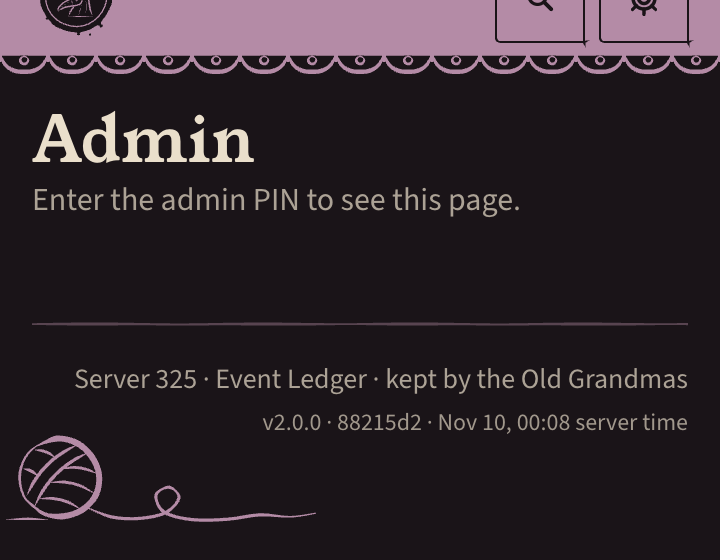
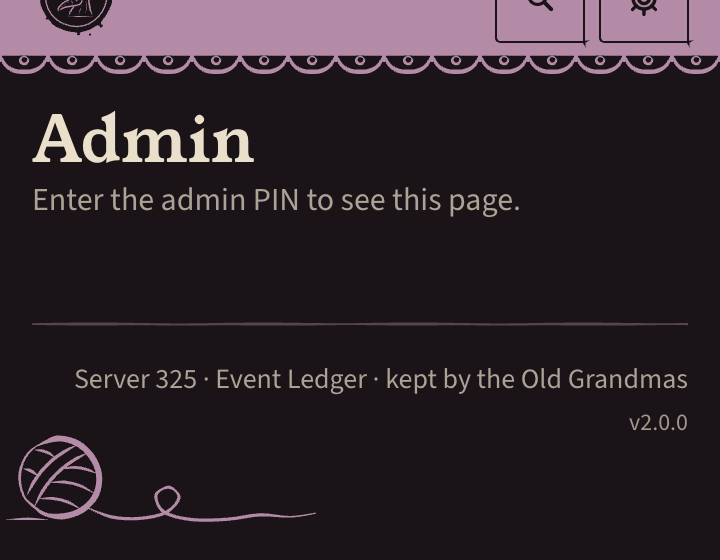
feat(footer): show only the version number (#193)
The owner finds the commit and the date too much text: the footer now shows
only the version (v2.0.0 on a release deploy of main), the branch on other
deploys (dev) and local outside Vercel. lib/build-line.ts becomes
lib/build-version.ts; the page clock plumbing from the previous commit is
reverted, so no caller of SiteFooter changes. D58 and the handoff follow.

Changed region(s): [[0.6111, 0.7286, 0.9472, 0.7893], [0.3667, 0.7286, 0.5806, 0.7893]]

diff --git a/app/_ui/SiteFooter.tsx b/app/_ui/SiteFooter.tsx
@@ -1,25 +1,17 @@
 // Page footer: the ledger's byline on the right and one corner ornament at the bottom left, out of the
 // content's way (DESIGN.md ornament budget): the yarn ball by default, the Granny Doctor on the error
-// and player pages. Under the byline, the build line (D58): release or branch and short commit, inlined
-// by next.config.ts, then the build time in the page's clock like every other date.
+// and player pages. Under the byline, the live version (D58), inlined at build time by next.config.ts.
 import { GrannyStanding } from "@/lib/brand/components/Mascot";
 import { YarnCorner } from "@/lib/brand/components/YarnCorner";
 import type { Dictionary } from "@/lib/copy";
 
-import type { Clock } from "./format";
-
 export function SiteFooter({
   ornament = "yarn",
-  clock,
   copy,
 }: {
   ornament?: "yarn" | "granny";
-  /** The page's clock; null in the client error boundaries, which then show no build time. */
-  clock: Clock | null;
   copy: Dictionary;
 }) {
-  const builtAt = process.env.BUILD_AT;
-  const build = [process.env.BUILD_LABEL, builtAt && clock ? clock.at(new Date(builtAt)) : null];
   return (
     <footer
       className={`relative mx-auto mt-8 max-w-[960px] px-4 text-plum sm:px-6 ${ornament === "granny" ? "h-36" : "h-28"}`}
@@ -29,7 +21,7 @@ export function SiteFooter({
         {copy.site.ledger} · {copy.site.byline}
       </p>
       <p className="mt-1 text-right text-xs text-ink/65 tabular-nums">
-        {build.filter(Boolean).join(" · ")}
+        {process.env.BUILD_VERSION}
       </p>
       {ornament === "granny" ? (
         <GrannyStanding className="absolute bottom-2 left-2 w-20" />

diff --git a/app/_ui/ErrorPage.tsx b/app/_ui/ErrorPage.tsx
@@ -6,7 +6,6 @@ import type { ReactNode } from "react";
 import { buttonClass } from "@/lib/brand/components/Button";
 import type { Dictionary } from "@/lib/copy";
 
-import type { Clock } from "./format";
 import { SiteFooter } from "./SiteFooter";
 import { SiteHeader } from "./SiteHeader";
 
@@ -16,7 +15,6 @@ export function ErrorPage({
   body,
   art,
   actions,
-  clock,
   copy,
 }: {
   code: string;
@@ -24,8 +22,6 @@ export function ErrorPage({
   body: string;
   art: ReactNode;
   actions: ReactNode;
-  /** The request's clock for the footer's build time; null in the client error boundaries. */
-  clock: Clock | null;
   /** The request's words, or English in global-error, which has no provider. */
   copy: Dictionary;
 }) {
@@ -45,7 +41,7 @@ export function ErrorPage({
           </div>
         </div>
       </main>
-      <SiteFooter ornament="granny" clock={clock} copy={copy} />
+      <SiteFooter ornament="granny" copy={copy} />
     </>
   );
 }

diff --git a/app/not-found.tsx b/app/not-found.tsx
@@ -2,7 +2,7 @@
 import Link from "next/link";
 
 import { ErrorPage, primaryAction } from "@/app/_ui/ErrorPage";
-import { requestClock, requestCopy } from "@/app/_ui/locale";
+import { requestCopy } from "@/app/_ui/locale";
 import { YarnLeftBehind } from "@/lib/brand/components/Vignettes";
 
 export async function generateMetadata() {
@@ -11,7 +11,7 @@ export async function generateMetadata() {
 }
 
 export default async function NotFound() {
-  const [clock, copy] = await Promise.all([requestClock(), requestCopy()]);
+  const copy = await requestCopy();
   const t = copy.errors.notFound;
   return (
     <ErrorPage
@@ -19,7 +19,6 @@ export default async function NotFound() {
       title={t.title}
       body={t.body}
       art={<YarnLeftBehind />}
-      clock={clock}
       copy={copy}
       actions={
         <Link href="/" className={primaryAction}>

diff --git a/lib/build-version.ts b/lib/build-version.ts
@@ -1,0 +1,14 @@
+// The live version in the footer (D58). next.config.ts calls this once per build with Vercel's system
+// variables and inlines the result as process.env.BUILD_VERSION: the release on a main deploy of a release
+// merge commit, else the branch (`dev`), and `local` outside Vercel.
+// The line release-publish.yml matches (D29): on any line, so GitHub's default merge message works too.
+const RELEASE = /^release: (v\d+\.\d+\.\d+)/m;
+
+// Reads VERCEL_GIT_COMMIT_REF and VERCEL_GIT_COMMIT_MESSAGE.
+export function buildVersion(env: Record<string, string | undefined>): string {
+  const ref = env.VERCEL_GIT_COMMIT_REF;
+  if (!ref) return "local";
+  const release =
+    ref === "main" ? RELEASE.exec(env.VERCEL_GIT_COMMIT_MESSAGE ?? "")?.[1] : undefined;
+  return release ?? ref;
+}

diff --git a/lib/build-version.test.ts b/lib/build-version.test.ts
@@ -1,0 +1,25 @@
+import { describe, expect, it } from "vitest";
+
+import { buildVersion } from "./build-version";
+
+describe("buildVersion", () => {
+  it("shows the release on a main deploy of a release merge commit", () => {
+    const env = {
+      VERCEL_GIT_COMMIT_REF: "main",
+      VERCEL_GIT_COMMIT_MESSAGE: "release: v2.0.0 (#190)\n\nNotes",
+    };
+    expect(buildVersion(env)).toBe("v2.0.0");
+  });
+
+  it("shows dev, not a version, on a dev deploy even of a release commit", () => {
+    const env = {
+      VERCEL_GIT_COMMIT_REF: "dev",
+      VERCEL_GIT_COMMIT_MESSAGE: "release: v2.0.0 (#190)",
+    };
+    expect(buildVersion(env)).toBe("dev");
+  });
+
+  it("reads local outside Vercel", () => {
+    expect(buildVersion({})).toBe("local");
+  });
+});

diff --git a/app/_ui/EmptyEvents.tsx b/app/_ui/EmptyEvents.tsx
@@ -1,10 +1,10 @@
 import { EmptyState } from "./EmptyState";
-import { requestClock, requestCopy } from "./locale";
+import { requestCopy } from "./locale";
 import { SiteFooter } from "./SiteFooter";
 import { SiteHeader } from "./SiteHeader";
 
 export async function EmptyEvents() {
-  const [clock, copy] = await Promise.all([requestClock(), requestCopy()]);
+  const copy = await requestCopy();
   return (
     <>
       <SiteHeader events={[]} currentId={null} homeId={null} copy={copy} />
@@ -12,7 +12,7 @@ export async function EmptyEvents() {
         <h1 className="sr-only">{copy.site.name}</h1>
         <EmptyState>{copy.empty.kettle}</EmptyState>
       </main>
-      <SiteFooter clock={clock} copy={copy} />
+      <SiteFooter copy={copy} />
     </>
   );
 }

diff --git a/next.config.ts b/next.config.ts
@@ -1,8 +1,8 @@
 // Security headers that don't vary per request (plan §12.3). The nonce-based CSP lives in proxy.ts.
-// `env` inlines the footer's build line at build time (D58).
+// `env` inlines the footer's live version at build time (D58).
 import type { NextConfig } from "next";
 
-import { buildInfo } from "./lib/build-line";
+import { buildVersion } from "./lib/build-version";
 
 const securityHeaders = [
   { key: "X-Content-Type-Options", value: "nosniff" },
@@ -17,7 +17,7 @@ const securityHeaders = [
 
 const nextConfig: NextConfig = {
   poweredByHeader: false,
-  env: buildInfo(process.env, new Date()),
+  env: { BUILD_VERSION: buildVersion(process.env) },
   async headers() {
     return [{ source: "/:path*", headers: securityHeaders }];
   },

diff --git a/app/_ui/admin/AdminShell.tsx b/app/_ui/admin/AdminShell.tsx
@@ -25,7 +25,7 @@ const NAV = [
 ];
 
 export async function AdminShell({ title, children }: { title: string; children: ReactNode }) {
-  const [unlocked, clock] = await Promise.all([isAdmin(), requestServerClock()]);
+  const unlocked = await isAdmin();
   return (
     // English whatever the viewer's language (D48): the lang attribute says so for this subtree.
     <div lang="en">
@@ -33,7 +33,7 @@ export async function AdminShell({ title, children }: { title: string; children:
       <main className="mx-auto max-w-[960px] px-4 py-4 sm:px-6">
         {unlocked ? <Unlocked title={title}>{children}</Unlocked> : <PinGate />}
       </main>
-      <SiteFooter clock={clock} copy={copy} />
+      <SiteFooter copy={copy} />
     </div>
   );
 }

diff --git a/app/(pages)/events/[id]/alliances/[unionId]/page.tsx b/app/(pages)/events/[id]/alliances/[unionId]/page.tsx
@@ -304,7 +304,7 @@ export default async function AlliancePage({ params }: { params: Params }) {
         <MemberList detail={detail} canDelta={canDelta} />
         <AcrossEvents unionId={unionId} history={history} clock={clock} />
       </main>
-      <SiteFooter clock={clock} copy={copy} />
+      <SiteFooter copy={copy} />
     </>
   );
 }

diff --git a/app/(pages)/players/[uid]/page.tsx b/app/(pages)/players/[uid]/page.tsx
@@ -201,7 +201,7 @@ export default async function PlayerPage({ params }: { params: Params }) {
           showAlliance={new Set(history.alliances.map((a) => a.unionId)).size > 1}
         />
       </main>
-      <SiteFooter ornament="granny" clock={clock} copy={copy} />
+      <SiteFooter ornament="granny" copy={copy} />
     </>
   );
 }

diff --git a/app/(pages)/events/compare/page.tsx b/app/(pages)/events/compare/page.tsx
@@ -162,7 +162,7 @@ export default async function ComparePage({ searchParams }: { searchParams: Sear
         )}
         {c && <Results c={c} one={one !== undefined} clock={clock} copy={copy} />}
       </main>
-      <SiteFooter clock={clock} copy={copy} />
+      <SiteFooter copy={copy} />
     </>
   );
 }

diff --git a/app/global-error.tsx b/app/global-error.tsx
@@ -25,7 +25,6 @@ export default function GlobalError({
           title={t.title}
           body={t.body}
           art={<CrackedBottle />}
-          clock={null}
           copy={en}
           actions={
             <button type="button" onClick={() => reset()} className={primaryAction}>
